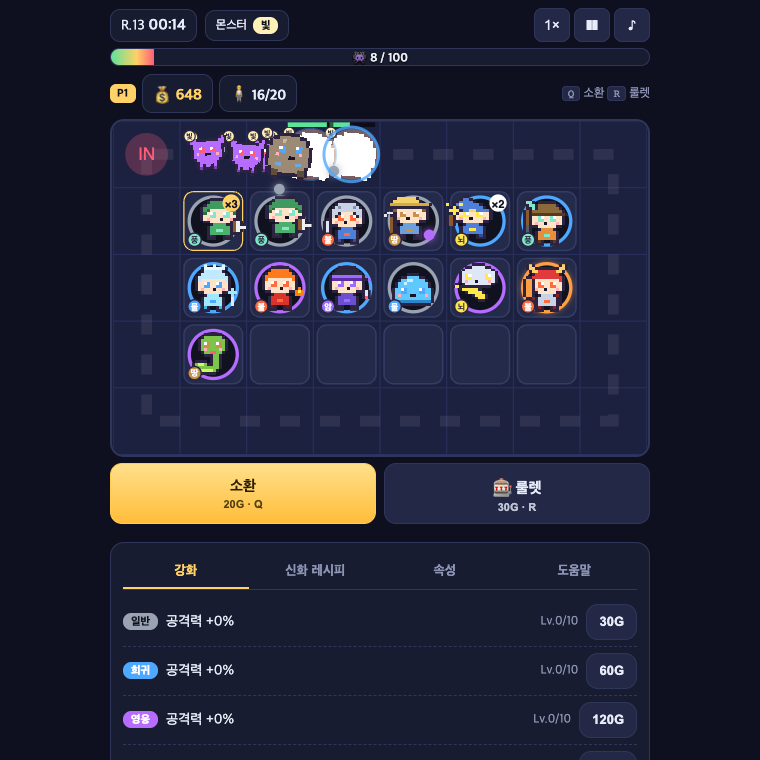
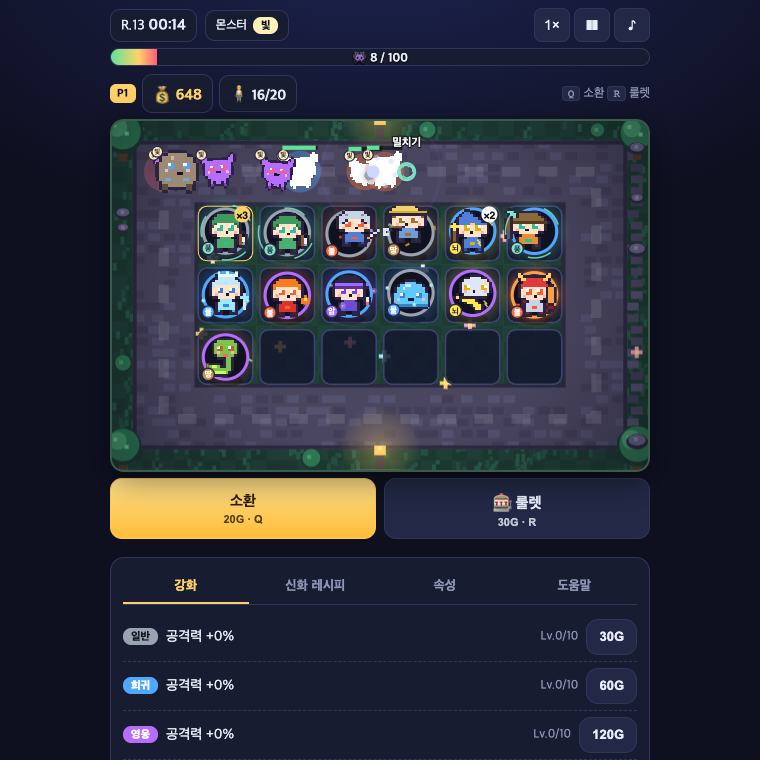
정령 연출·드래그·배경·속성 스킬: docs 갱신

diff --git a/docs/GDD.md b/docs/GDD.md
@@ -62,20 +62,32 @@
 - 몬스터 속성은 라운드마다 순환(불·물·바람·땅·번개·빛·어둠), 보스는 고유 속성(오우거 땅 / 흑룡 불 / 리치 킹 어둠 / 마왕 번개).
 - 의도: 매 라운드 "지금 어떤 유닛을 앞에 둘까"라는 배치 판단을 추가하되, 봇 시뮬 승률이 속성 없는 경우와 비슷하게(약 25%) 유지되도록 배율을 작게 둔다.
 
+### 속성 스킬 (`config.js` `ELEMENT_SKILLS`)
+유닛이 **주 대상**을 타격할 때마다 확률로 발동. 보스에게는 스턴·속박·밀치기가 30%만 적용(`BOSS_CC_MULT`).
+| 속성 | 스킬 | 확률 | 효과 | 이펙트 |
+|---|---|---|---|---|
+| 불 | 화상 | 25% | 2초간 초당 공격력 30% 추가 피해 | 주황 링 + 솟는 불씨 |
+| 물 | 둔화 | 25% | 2초간 이동속도 -40% | 파란 링 + 물방울, 몬스터 파란 틴트 |
+| 바람 | 밀치기 | 20% | 경로 뒤로 0.7칸 | 청록 바람결 |
+| 땅 | 속박 | 20% | 1초 이동 불가 | 갈라진 바닥 + 발밑 덩굴 링 |
+| 번개 | 감전 | 20% | 0.5초 스턴 + 인접 1체에 피해 50% 전이 | 하늘에서 내리꽂는 번개, 머리 위 스파크 |
+| 빛 | 성광 | 20% | 즉시 공격력 60% 추가 피해 | 흰 섬광 + 반짝임 |
+| 어둠 | 저주 | 20% | 3초간 받는 피해 +25% | 보라 안개, 몬스터 보라 틴트 |
+
 ## 7-2. 2인 협동 (한 기기)
 - 타이틀에서 「2인 협동」 선택 → 보드 2개(P1/P2)가 세로(모바일) 또는 가로(PC ≥ 900px)로 배치된다.
 - 각 플레이어는 **골드·유닛·강화·레시피가 독립**. 소환/룰렛 버튼과 단축키(P1 `Q`/`R`, P2 `U`/`I`)도 각자.
-- **공유**: 라운드 시계, 몬스터 속성, 몬스터 수(두 보드 합산, 한도 **150**).
+- **공유**: 라운드 시계, 몬스터 속성, 몬스터 수(두 보드 합산, 한도 **160**).
 - **보스**: 두 보드에 각각 등장(체력 ×0.8). **둘 다** 제한 시간 안에 잡아야 다음 라운드. 한쪽이라도 실패하면 공동 패배.
 - **골드 지원**: 💝 버튼으로 상대에게 20G 전달(협동의 핵심 상호작용).
 - 결과 화면은 P1/P2 통계를 따로 보여주고 최고 기록은 1인/2인 별도 저장.
 
 ## 8. 라운드 & 몬스터
 - 라운드 길이 **20초**, 총 **40라운드**. 10/20/30/40 라운드는 **보스 라운드**.
-- 일반 라운드: `12 + 라운드` 마리(최대 40)가 첫 10초 동안 분산 등장. 체력은 `base × 1.2^(라운드-1)`.
+- 일반 라운드: `12 + 라운드` 마리(최대 40)가 첫 10초 동안 분산 등장. 체력은 `base × 1.21^(라운드-1)`.
 - 몬스터 종류: 일반(👾), 빠름(🐺, 속도 1.6배·체력 0.6배), 방패(🪨, 체력 2.2배·속도 0.7배·피해 감소), 보스(👹/🐉/💀/👑).
 - **보스**: 제한 시간(라운드 20초) 내 처치 실패 → 패배. 처치 시 골드 +(100 + 라운드×5) 및 보상 상자.
-- **패배**: 필드 몬스터 ≥ 100마리(2인: 합산 150) 또는 보스 시간 초과.
+- **패배**: 필드 몬스터 ≥ 100마리(2인: 합산 160) 또는 보스 시간 초과.
 - **승리**: 40라운드 보스 처치(2인: 두 보드 모두).
 
 ## 9. 경제
@@ -104,17 +116,20 @@
 - 상단 HUD(공용): 라운드/타이머, 이번 라운드 몬스터 속성, 몬스터 수 게이지, 보스 체력바.
 - 플레이어 블록(1~2개): P 라벨, 골드, 유닛 수, 보드, 「소환」「룰렛」(2인은 「💝 지원」).
 - 하단 패널: 「강화」「신화 레시피」「속성」「도움말」 탭. 2인은 P1/P2 전환 버튼.
-- 칸 터치/클릭 → 유닛 선택 → 정보 카드(판매/합성). 다른 칸 터치 → **이동(또는 교환)**.
+- 칸 터치/클릭 → 유닛 선택 → 정보 카드(판매/합성/속성 스킬). 다른 칸 터치 → **이동(또는 교환)**.
+- **드래그**: 유닛을 8px 이상 끌면 드래그 시작. 유닛이 포인터를 따라오고 원래 칸은 반투명, 놓을 칸에 「이동/겹치기/교환」 라벨과 색(초록/노랑) 강조. 보드 밖에 놓으면 취소.
 - 키보드: P1 `Q` 소환 `R` 룰렛, P2 `U` 소환 `I` 룰렛, `E` 합성, `S` 판매, `ESC` 선택 해제, `P` 일시정지, `M` 음소거, `1~3` 배속(1×/2×/3×).
 
 ## 12. 연출
 - 소환 시 등급별 색 플래시·사운드(전설 이상은 보드 전체 발광), 합성 시 파티클.
 - **공격 모션**: 발사 순간 유닛이 대상 방향으로 0.28초 돌진 후 복귀(가로로 늘어나는 스쿼시), 무기 레이어가 공격 포즈로 교체, 대상이 왼쪽이면 좌우 반전. 대기 중엔 느린 숨쉬기 바운스.
 - 몬스터는 걷기 바운스·기울기, 보스는 숨쉬기 스케일. 피격 시 흰색 실루엣 플래시.
+- **정령 연출**: 유닛은 칸 위에 떠 있고(바닥 타원 그림자, 높이에 따라 크기 변화) 속성색 방사형 오라 위에 속성별 입자 3개가 궤도를 돈다.
+- **배경**: 밤의 초원. 잔디 타일(체커 + 풀잎 플렉 + 꽃), 자갈 돌길(루프), 보드 둘레 여백에 나무 4그루·덤불·바위·등불 2개(불빛 깜빡임). 결정적 난수로 한 번만 그려 캐시.
 - 보스 등장 배너, 몬스터 90마리 이상 시 경고(붉은 테두리 점멸).
 - 결과 화면: 도달 라운드, 처치 수, 최고 등급 유닛, 최고 기록(로컬 저장).
 
 ## 13. 밸런스 메모
 - 밸런스 수치는 모두 `js/config.js` 단일 소스에서 관리.
 - 목표 체감: 10라운드 보스 = 영웅 2~3개 덱, 20라운드 = 전설 1개, 30라운드 = 신화 1개, 40라운드 = 신화 2개 + 강화.
-- 헤드리스 시뮬레이터(`tools/sim.mjs [판수] [인원]`)로 튜닝. 2026-11-02 기준 단순 봇 승률: 1인 24%(80판), 2인 28%(60판). 속성 배율을 끄면 1인 30%로, 불리 배율 0.85에서는 18%로 떨어져 0.9로 결정.
+- 헤드리스 시뮬레이터(`tools/sim.mjs [판수] [인원]`)로 튜닝. 속성 스킬 추가 전 봇 승률은 1인 24% / 2인 28%였고, 스킬 추가로 43%까지 올라가 체력 성장률 1.2 → 1.21, 리치 킹 30000 → 34000, 마왕 95000 → 120000, 협동 한도 150 → 160으로 조정해 1인 26%(80판) / 2인 18%(80판)로 맞췄다. 성장률만 올리면 2인이 급격히 어려워진다(1.23에서 2인 1%): 두 보드 합산 한도에 체력 증가가 그대로 쌓이기 때문. 속성 배율을 끄면 1인 30%로, 불리 배율 0.85에서는 18%로 떨어져 0.9로 결정.

diff --git a/docs/DESIGN.md b/docs/DESIGN.md
@@ -22,7 +22,7 @@
 | `--r-legend` | `#ff9f43` | 전설 |
 | `--r-mythic` | `#ff4d6d` | 신화 (글로우 애니메이션) |
 
-보드(Canvas): 경로 `#1c2140`, 그리드 칸 `#242a4a` / 테두리 `#343c66`, 선택 칸 `--gold`, 스택 뱃지 흰색.
+보드(Canvas) 배경 "밤의 초원": 잔디 `#1c3a30`/`#1f4036` 체커, 풀잎 `#2a5a46`, 돌길 `#4a4660`(자갈 `#555170`/`#423e58`), 외곽선 `#2d2a40`, 나무 캐노피 `#2f7a55`/`#48a06f`, 등불 `--gold`. 그리드 칸은 반투명 `rgba(18,22,46,.82)` / 테두리 `#3b4470`, 선택 칸 `--gold`, 스택 뱃지 흰색. 보드 테두리 `#3b5a4a`. 페이지는 상단 남색 라디얼 + 별 12개(`body::before`, 4초 트윙클).
 
 ## 3. 타이포그래피
 - 시스템 폰트 스택: `"Pretendard", "Apple SD Gothic Neo", "Noto Sans KR", system-ui, sans-serif` (외부 로드 없음)
@@ -62,13 +62,16 @@ PC(≥900px) 2인: #app 폭 1120px, P1/P2 블록을 가로로 나란히(flex row
 ## 6. 모션
 - 소환: 칸에서 등급색 링 확산(0.4s). 전설 이상은 보드 비네트 플래시.
 - 합성: 3개 칩이 중앙으로 수축 → 새 칩 팝(스케일 0→1.2→1).
-- 공격: 유닛이 대상 방향으로 돌진(최대 0.16칸)하고 가로 +14% / 세로 -10% 스쿼시, 0.28초 sin 곡선으로 복귀. 처음 75% 구간은 무기 공격 프레임. 대상이 왼쪽이면 스프라이트 좌우 반전. 대기 중 숨쉬기(진폭 0.014칸, 칸마다 위상 차).
+- 공격: 유닛이 대상 방향으로 돌진(최대 0.16칸)하고 가로 +14% / 세로 -10% 스쿼시, 0.28초 sin 곡선으로 복귀. 처음 75% 구간은 무기 공격 프레임. 대상이 왼쪽이면 스프라이트 좌우 반전.
+- 정령 부유: 칩 전체가 -0.02칸 기준으로 ±0.022칸 떠다니고(칸마다 위상 차), 바닥 타원 그림자는 높을수록 작아진다. 칩 뒤에 속성색 라디얼 오라(α .33→0), 앞에 속성 입자 3개가 1.5rad/s로 궤도. 불은 솟아오르는 불씨, 번개는 깜빡이는 스파크, 빛은 트윙클 십자.
+- 스킬 발동: 속성색 링 확산(0.55초) + 입자 6개 방사, 번개는 위에서 내리꽂는 번개 선, 땅은 바닥 균열, 빛은 흰 섬광. 몬스터 상태: 둔화 파랑 틴트 / 저주 보라 틴트 / 속박 발밑 덩굴 링 / 스턴 머리 위 스파크 회전. 스킬명 소형 텍스트.
+- 드래그: 원래 칸 α .35, 고스트 칩 1.15배 + 등급색 그림자, 포인터 위 0.3r 지점에 떠 있음. 대상 칸은 이동/겹치기 초록(`--ok`), 교환 노랑(`--gold`) 채움+테두리+라벨.
 - 몬스터 걷기: 상하 바운스 0.03칸 + ±0.08rad 기울기(개체마다 위상 차). 보스는 숨쉬기 스케일 ±3%.
 - 피격: 몬스터 흰색 플래시 2프레임, 사망 시 작은 파티클 6개. 속성 유리 타격 시 노란 "약점!" 소형 텍스트.
 - 몬스터 90+ 경고: 보드 테두리 `--danger` 펄스.
 
 ## 7. 접근성 / 반응형
-- 모든 조작은 터치 1탭으로 가능(드래그 불필요). 버튼 최소 44×44px.
+- 모든 조작은 터치 1탭으로 가능(드래그는 선택 사항). 버튼 최소 44×44px.
 - `prefers-reduced-motion` 시 펄스/파티클 최소화.
 - 가로 모드 PC: 보드 최대 640px, 하단 패널은 그대로 아래 배치(스크롤 없이 1080p에 전부 노출).
 
